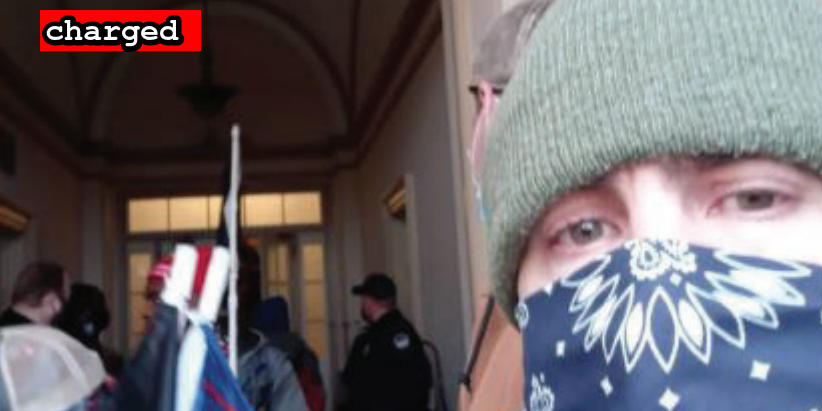
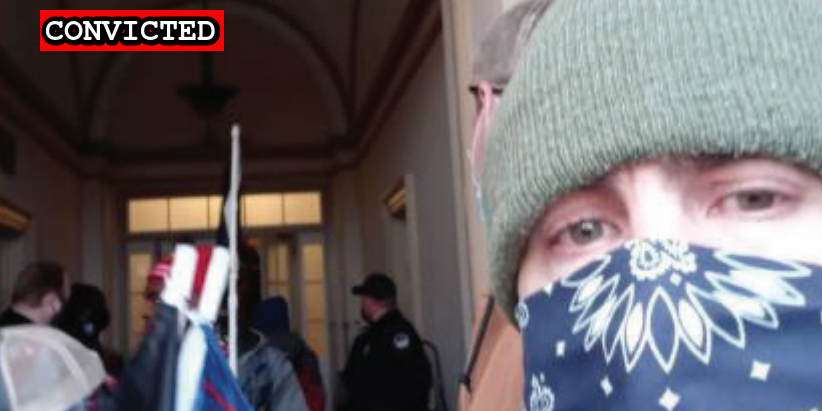
Latest import

Changed region(s): [[0.0304, 0.0, 0.2737, 0.146]]

diff --git a/docs/_suspects/andrew-wrigley.md b/docs/_suspects/andrew-wrigley.md
@@ -3,13 +3,13 @@ name: Andrew Wrigley
 lastName: Wrigley
 aka:
 residence: Pennsylvania
-status: Charged
+status: Convicted
 date: 2021-01-15
 charged: 2021-01-15
 indicted:
-convicted: 
-sentenced: 
-dismissed: 
+convicted: 2021-09-08
+sentenced:
+dismissed:
 deceased:
 age: 50
 occupation:
@@ -29,8 +29,15 @@ author: seditiontrack
 layout: suspect
 published: true
 caseNumber: 1:21-cr-42
+videos:
+charges:
+- code: 18 USC § 5104(e)(2)(G)
+  title: Parading, Demonstrating or Picketing in a Capitol Building
+  url: https://www.law.cornell.edu/uscode/text/40/5104
+  felony: false
 ---
 - [News Article](https://www.post-gazette.com/news/crime-courts/2021/01/18/Pennsylvania-man-arrested-capitol-riot-Andrew-Wrigley/stories/202101180061)
 - [Complaint](https://www.justice.gov/opa/page/file/1355911/download)
-- [Statement of Facts](https://www.justice.gov/opa/page/file/1355916/download)
+- [Statement of Facts](https://www.justice.gov/usao-dc/case-multi-defendant/file/1431476/download)
 - [Information](https://www.justice.gov/usao-dc/case-multi-defendant/file/1371681/download)
+- [Plea Agreement](https://www.justice.gov/usao-dc/case-multi-defendant/file/1431471/download)

diff --git a/docs/_suspects/russell-peterson.md b/docs/_suspects/russell-peterson.md
@@ -29,6 +29,7 @@ author: seditiontrack
 layout: suspect
 published: true
 caseNumber: 1:21-cr-309
+videos:
 charges:
 - code: 18 USC § 5104(e)(2)(G)
   title: Parading, Demonstrating or Picketing in a Capitol Building
@@ -36,5 +37,6 @@ charges:
   felony: false
 ---
 - [News Report](https://triblive.com/local/regional/beaver-county-man-charged-in-connection-with-capitol-riot/)
-- [Statement of Facts](https://www.justice.gov/usao-dc/case-multi-defendant/file/1367016/download)
+- [Statement of Facts](https://www.justice.gov/usao-dc/case-multi-defendant/file/1431461/download)
 - [Information](https://www.justice.gov/usao-dc/case-multi-defendant/file/1388656/download)
+- [Plea Agreement](https://www.justice.gov/usao-dc/case-multi-defendant/file/1431466/download)

diff --git a/docs/_suspects/frank-scavo.md b/docs/_suspects/frank-scavo.md
@@ -39,4 +39,5 @@ charges:
 - [News Report](https://www.timesleader.com/news/1137275/scavo-was-pushed-into-capitol-lawyer-says)
 - [Information](https://www.justice.gov/usao-dc/case-multi-defendant/file/1380551/download)
 - [Complaint](https://www.justice.gov/usao-dc/case-multi-defendant/file/1380711/download)
-- [Statement of Facts](https://www.justice.gov/usao-dc/case-multi-defendant/file/1380716/download)
+- [Statement of Facts](https://www.justice.gov/usao-dc/case-multi-defendant/file/1431446/download)
+- [Plea Agreement](https://www.justice.gov/usao-dc/case-multi-defendant/file/1431441/download)
